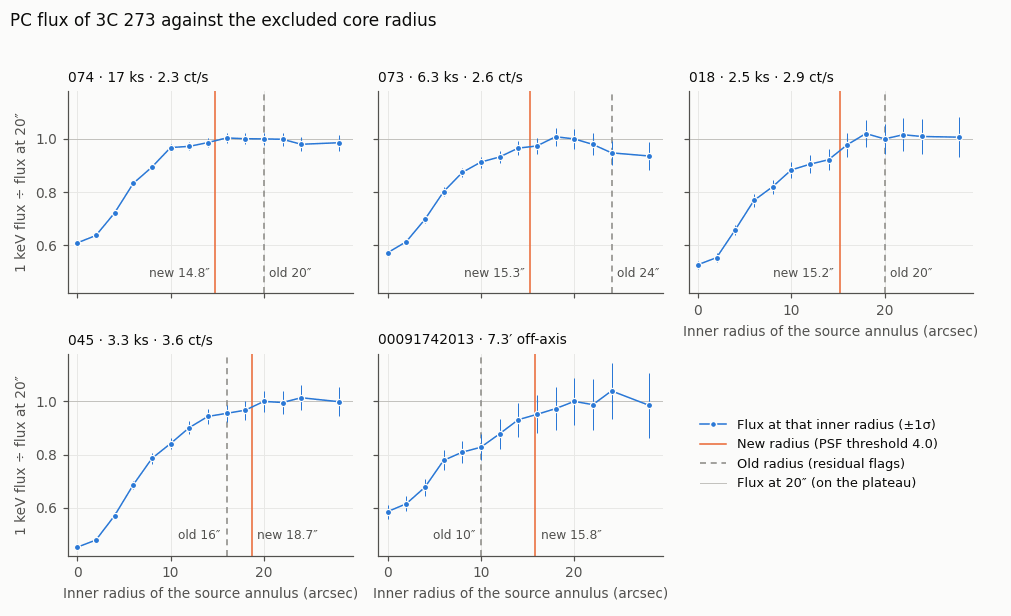
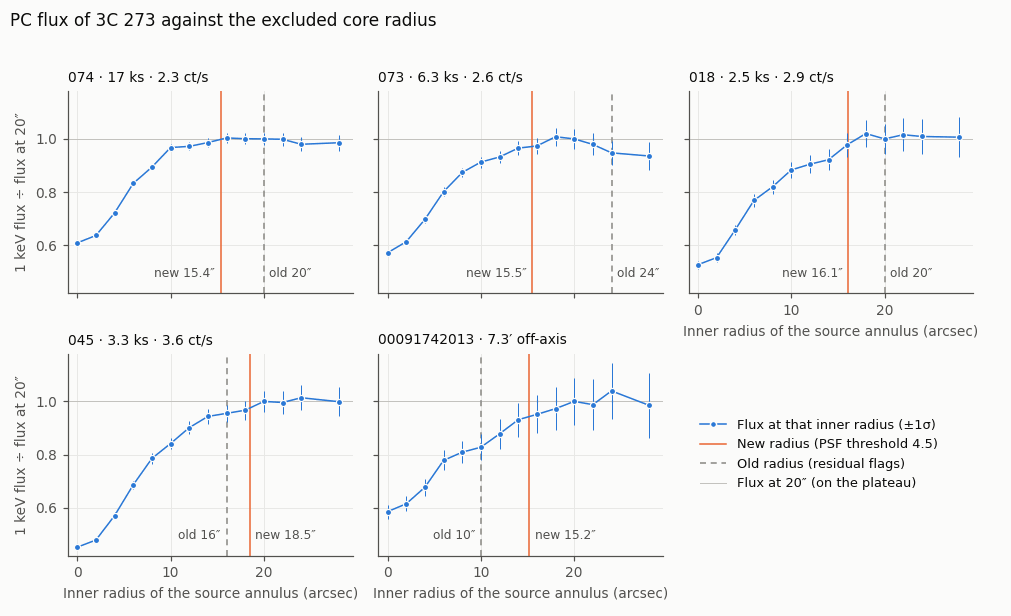
Step 5 docs: exposure-corrected profile and the 4.5 threshold
The profile plot is regenerated from the corrected script: outside the
core, 018's rings now follow the model to about 2 sigma. The page
explains the bad-column effect it removes, the threshold (4.5, with
1.5-5.4" margins), the final radii and fluxes, and adds a gotcha for
missing exposure maps. The calibration figure and source image show the
final radii. README and doc_notes are updated to match.

diff --git a/docs/05-pc-inspection.md b/docs/05-pc-inspection.md
@@ -28,7 +28,9 @@ For each PC cleaned event file in each OBSID folder, the script:
 1. **Finds the source.** It starts at `--ra`/`--dec` and moves to the mean
    position of the events within 15″, repeating with a shrinking circle.
 2. **Builds a radial profile**: surface brightness in 2″ rings out to 80″, in
-   ct/s/arcmin².
+   ct/s/arcmin². Each ring is divided by its *exposed* area, from the Step 3
+   exposure map, so bad columns crossing the source don't take counts out of
+   some rings.
 3. **Fits the PSF to the wings.** The King model of the XRT point-spread
    function, S(r) = S0 (1 + (r/rc)²)^−β + bkg, is fit between 20″ and 60″,
    where pile-up doesn't reach. The shape is fixed at the Swift calibration
@@ -37,7 +39,7 @@ For each PC cleaned event file in each OBSID folder, the script:
 4. **Sets the pile-up radius.** Pile-up depends on how many photons land on
    the same pixels in one frame. So the radius is where the fitted profile,
    which pile-up doesn't touch because it was fit to the wings, falls below
-   4 counts per frame per arcmin². S0 is taken at the top of its 1σ range, so
+   4.5 counts per frame per arcmin². S0 is taken at the top of its 1σ range, so
    a short, noisy exposure errs toward a larger radius. If the radius reaches
    into the 20–60″ fit range, those wings are piled up too, and the script
    refits further out. [How the radius is chosen](#how-the-radius-is-chosen)
@@ -56,7 +58,7 @@ For each PC cleaned event file in each OBSID folder, the script:
 | `--maxplot` | Largest radius plotted (default `--rmax` + 20) |
 | `--centroid` | Search radius for the source position, in arcsec (default 15) |
 | `--rc` / `--beta` | PSF shape, fixed (default 5.8″ and 1.55) |
-| `--sbthresh` | Pile-up threshold in counts/frame/arcmin² (default 4.0) |
+| `--sbthresh` | Pile-up threshold in counts/frame/arcmin² (default 4.5) |
 | `--sigma` / `--sigma2` | Thresholds for the diagnostic ring flags: two neighbouring rings / one ring (default 3 and 4) |
 | `--pdf` | Name of the collected plots (default `king_profiles.pdf`) |
 
@@ -92,7 +94,7 @@ table in [Step 6](06-wt-inspection.md), together with the WT table.
 
 ### Reading a profile plot
 
-![King profile of OBSID 00035017018: data fall far below the model inside 8 arcsec, sit above it between 13 and 19 arcsec, and follow it from 20 to 60 arcsec; the pile-up radius is 15.2 arcsec](img/step5_king_profile_018.png)
+![Exposure-corrected King profile of OBSID 00035017018: the data fall far below the model inside 10 arcsec and follow it everywhere outside; the pile-up radius is 16.1 arcsec](img/step5_king_profile_018.png)
 
 The top panel shows the data (black) and the King model fitted to the shaded
 20–60″ wings (red), extended inward. The bottom panel shows the difference in
@@ -100,13 +102,19 @@ The top panel shows the data (black) and the King model fitted to the shaded
 the pile-up radius.
 
 Pile-up is the deficit in the core: here the data fall below the model inside
-about 8″, by up to 43σ. Between 13″ and 19″ the data sit *above* the model.
-Pile-up only removes counts, so that isn't pile-up. The rings between 12″
-and 20″ differ from the model by +34% to −10% from one observation to the
-next. The profile isn't corrected for bad columns crossing the source, and
-the King shape isn't exact. With thousands of counts, such differences show
-at 4–6σ. That is why the flags don't set the radius: they would put it at
-20″ here, and at 24″ for 073.
+about 10″, by up to 65σ. Outside it, the data follow the model to within
+about 2σ.
+
+That depends on the exposure correction. The XRT CCD has bad columns, and
+where they cross the source, some rings lose part of their exposure. In the
+test set they remove 0–18% of the 20–60″ wing area. Uncorrected, 018's S0
+comes out 24% low, and its rings at 12–20″ sit 34% above the model, flagged
+at 4–6σ. The off-axis pointing, whose source misses the bad columns, never
+showed this.
+
+The flags now mark where the deficit becomes significant (10″ here). The
+flux needs a few arcseconds more, as shown below, which is why the flags
+don't set the radius.
 
 ### How the radius is chosen
 
@@ -116,28 +124,31 @@ The threshold was set by testing radii against spectra, not profiles. For
 five 3C 273 PC observations, spectra were extracted with inner radii from 0″
 to 28″ and fitted (Steps 7 and 8). While the inner radius is too small,
 piled-up events stay in the spectrum and the 1 keV flux comes out low. Once
-the core is excluded, the flux levels off. At 4.0 counts/frame/arcmin², the
-radius (orange) lands 1–5″ beyond that point in all five.
+the core is excluded, the flux levels off. At 4.5 counts/frame/arcmin², with
+the exposure-corrected profile, the radius (orange) lands 1.5–5.4″ beyond
+that point in all five. (4.9 is the most that would keep a 1″ margin in
+all five.)
 
-The old radius (gray) came from the ring flags. It was larger than needed for
-018, 073 and 074, keeping only 42–65% of the counts the new radius keeps, and
-too small for the off-axis pointing, whose flux was then 17% low:
+The old radius (gray) came from the ring flags on the uncorrected profile.
+It was larger than needed for 018, 073 and 074, keeping only 43–68% of the
+counts the new radius keeps, and too small for the off-axis pointing, whose
+flux was then 17% low:
 
 | OBSID | Flux levels off at | Old radius | New radius | Flux, old radius | Flux, new radius | Flux at 20″ |
 | ----- | ------------------ | ---------- | ---------- | ---------------- | ---------------- | ----------- |
-| 018 | 14″ | 20″ | 15.2″ | 1.53 ± 0.09 | 1.50 ± 0.07 | 1.53 ± 0.09 |
-| 045 | 16″ | 16″ | 18.7″ | 2.08 ± 0.07 | 2.14 ± 0.08 | 2.18 ± 0.09 |
-| 073 | 14″ | 24″ | 15.3″ | 1.29 ± 0.06 | 1.33 ± 0.04 | 1.36 ± 0.05 |
-| 074 | 10″ | 20″ | 14.8″ | 1.39 ± 0.03 | 1.38 ± 0.03 | 1.39 ± 0.03 |
-| 00091742013 | 12″ | 10″ | 15.8″ | 1.15 ± 0.07 | 1.33 ± 0.10 | 1.39 ± 0.12 |
+| 018 | 14″ | 20″ | 16.1″ | 1.53 ± 0.09 | 1.50 ± 0.07 | 1.53 ± 0.09 |
+| 045 | 16″ | 16″ | 18.5″ | 2.08 ± 0.07 | 2.12 ± 0.08 | 2.18 ± 0.09 |
+| 073 | 14″ | 24″ | 15.5″ | 1.29 ± 0.06 | 1.33 ± 0.04 | 1.36 ± 0.05 |
+| 074 | 10″ | 20″ | 15.4″ | 1.39 ± 0.03 | 1.39 ± 0.03 | 1.39 ± 0.03 |
+| 00091742013 | 12″ | 10″ | 15.2″ | 1.15 ± 0.07 | 1.32 ± 0.09 | 1.39 ± 0.12 |
 
 Fluxes are at 1 keV, in 10⁻²⁸ erg cm⁻² s⁻¹ Hz⁻¹. "Levels off at" is the
 smallest radius from which the flux stays within 2σ of its value at 20″.
 
-The two short snapshots in the test set get 14.2″, because their S0 is
-uncertain by 24% (043, 122 s) and 36% (080, 75 s). 043 keeps 82 counts, enough
-for a fit with Γ frozen. 080 keeps too few, so it drops out of the light curve
-in Step 8.
+The two short snapshots in the test set get 13.7″ and 13.8″, a little larger
+than their brightness alone would give, because their S0 is uncertain by 23%
+(043, 122 s) and 34% (080, 75 s). 043 keeps 84 counts, enough for a fit with
+Γ frozen. 080 keeps too few, so it drops out of the light curve in Step 8.
 
 The calibration covers one source at 2.3–3.6 ct/s. Pile-up depends on counts
 per frame on each pixel, and that is what the threshold measures, so it
@@ -156,15 +167,16 @@ re-run 5a, then extract and fit (Steps 7 and 8) at each.
 # King PSF: rc=5.80" beta=1.550 (fixed)
 # Window: Window: w3 (300x300px, 1.77s/frame)
 # Count rate: 2.857 ct/s
-pileup_radius_arcsec = 15.2
+pileup_radius_arcsec = 16.1
 
 # How pileup_radius_arcsec was chosen:
 pileup_method = psf-threshold
-sb_threshold = 4 counts/frame/arcmin^2
+sb_threshold = 4.5 counts/frame/arcmin^2
 wing_fit_range_arcsec = 20-60
-s0_fractional_error = 0.042
+exposure_map = sw00035017018xpcw3po_ex.img
+s0_fractional_error = 0.040
 # Residual-flag radius, diagnostic only:
-measured_pileup_radius_arcsec = 20.0
+measured_pileup_radius_arcsec = 10.0
 ```
 
 Step 7 reads the centroid, plate scale, count rate, `pileup_radius_arcsec` and
@@ -174,7 +186,7 @@ after the blank line record how the radius was chosen.
 
 ### What to look for in the images
 
-![Source image of OBSID 00035017073: a single point source at the magenta centroid, with the 15.3-arcsec pile-up radius drawn as a red dashed circle](img/step5_source_073.png)
+![Source image of OBSID 00035017073: a single point source at the magenta centroid, with the 15.5-arcsec pile-up radius drawn as a red dashed circle](img/step5_source_073.png)
 
 - **One point source at the magenta mark.** If the mark sits off the source,
   `--ra`/`--dec` or the centroid search went wrong.
@@ -254,6 +266,12 @@ lines starting with `#` are ignored.
 
 5. **`badstripe` does nothing.** It is a note only. To drop an observation,
    set `include` to `no`.
+
+6. **The profile needs the Step 3 exposure maps.** Without
+   `<stem>_ex.img` next to the event file (for example after
+   `--createexpomap no`), 5a warns and uses the geometric ring area. Bad
+   columns then pull S0 down, and the radius can come out up to about 1.5″
+   too small. `_pileup.txt` records which was used (`exposure_map`).
 
 ## Notes
 

diff --git a/doc_notes.md b/doc_notes.md
@@ -198,27 +198,36 @@ Findings:
   σ_diff² = σ_outer² − σ_inner² for nested annuli). The flags missed in
   both directions, and a deficit-only test (with either PSF shape) gave
   8–10″ for 018/073, where their flux was still 9–18% low. The radius is
-  now the PSF surface-brightness threshold (S0 + 1σ) at 4.0
-  counts/frame/arcmin² for every observation; PR #11's 1.75 had been
-  calibrated to the inflated flag radii. Fluxes at the new radii match the
-  levelled-off values within 0.5σ, with 21–34% smaller errors for 018, 073
-  and 074. The calibration covers one source at 2.3–3.6 ct/s.
+  now the PSF surface-brightness threshold (S0 + 1σ) for every
+  observation, on the exposure-corrected profile (next bullet), at 4.5
+  counts/frame/arcmin²: the most that keeps every radius 1″ beyond where
+  its flux levels off is 4.9. PR #11's 1.75 had been calibrated to the
+  inflated flag radii. Fluxes at the new radii match the levelled-off
+  values within 0.8σ, and 018, 073 and 074 keep 1.5–2.3× the counts.
+  The calibration covers one source at 2.3–3.6 ct/s.
   Test data stay on amorgos in `test_runs/pu/` (gitignored): `R00`–`R28`
-  extractions and fits, `scan.json`, `NEW/` (new method), `analysis/`.
+  extractions and fits, `scan.json`, `NEW/` (threshold, uncorrected
+  profile), `NEW2/` (final: exposure-corrected, 4.5), `analysis/`
+  (`calibrate.py`, `calib_figure.py`, `expo_profiles.py`).
 - **The CALDB PC PSF (`swxpsf20010101v006`, 2020) is not the script's
   King shape.** v006 is a King with rc = 1.581 px (3.7″) and β = 1.305 plus
   a 7.5% Gaussian with σ = 3.149 px; the script's fixed rc = 5.8″,
-  β = 1.55 matches v004/v005. Neither describes the 12–20″ rings
-  consistently: data/model there runs from +34% (018) to −10% (045) with
-  the script's shape and +16% to −20% with v006, varying by observation.
-  Likely causes: bad columns crossing the source (the profile isn't
-  exposure-corrected), pile-up reaching ~16″ in the brightest (045), maybe
-  the 3C 273 jet at 13–22″ (a wedge test was inconclusive, confounded by
-  exposure). That per-observation structure, not pile-up, is what the
-  flags picked up; v006 in the profile gave the same radii.
+  β = 1.55 matches v004/v005. The PSF shape turned out not to matter
+  here (v006 in the profile gave the same radii); see the next bullet.
+- ~~The 12–20″ rings differ from the model by +34% to −10% by
+  observation~~ — CAUSE FOUND AND FIXED on the same branch: bad columns.
+  The profile divided counts by geometric ring area; bad columns crossing
+  the source remove 0–18% of the 20–60″ wing area (up to 13–32% of single
+  rings), which left S0 up to 24% low and the inner rings looking bright.
+  The profile now divides each ring by its exposed area from the
+  xrtpipeline exposure map (pixels whose centres fall in the ring, as the
+  events do, weighted by exposure). Corrected: 018 +34% → +3%, 073
+  +12% → −2%, wing χ²/dof 0.8–3.5 → 0.7–1.3, and the residual flags move
+  from 20–24″ to the core deficit at 10–12″. The off-axis pointing misses
+  the bad columns and never showed the bump.
 - **The fitter freezes Γ at `--defgamma` 2.0 below `--mingamma` 200
   counts.** For 3C 273 (Γ ≈ 1.5) that biases the 1 keV flux of short PC
-  snapshots such as 043 (82 counts at its new 14.2″). For 1.2.8.
+  snapshots such as 043 (84 counts at its new 13.7″). For 1.2.8.
 - **Overrides reach extraction only through `_pileup.txt`.** Extraction
   never reads `pileup_overrides.txt`, though `parallel_extract.py` symlinks
   it into each chunk dir as if it did. Documented ("re-run 5a"); for

diff --git a/README.md b/README.md
@@ -300,7 +300,7 @@ Key options:
     --rbin      Radial bin width in arcsec (default: 2)
     --rc        King core radius, fixed (default: 5.8")
     --beta      King beta slope, fixed (default: 1.55)
-    --sbthresh  Pile-up threshold, counts/frame/arcmin^2 (default: 4.0)
+    --sbthresh  Pile-up threshold, counts/frame/arcmin^2 (default: 4.5)
     --sigma     Diagnostic ring flags, 2 consecutive bins (default: 3.0)
     --sigma2    Diagnostic ring flags, single bin (default: 4.0)
     --pdf       Output PDF filename (default: king_profiles.pdf)
@@ -317,9 +317,9 @@ Override file (optional):
     radius from _pileup.txt, not from the override file.
 ```
 
-The King model `S(r) = S0 * (1 + (r/rc)²)^(-β) + bkg` is fit to the outer wings only (rmin–rmax), where pile-up doesn't reach. The core radius (rc=5.8") and slope (β=1.55) are fixed; only S0 and background are free. The pile-up radius is where this profile, with S0 at the top of its 1σ range, falls below `--sbthresh` counts per frame per arcmin² (pile-up is per frame, so this scales with the window's frame time). If the radius reaches into the fitting annulus, the wings are refit further out.
+The radial profile divides each ring by its exposed area, from the xrtpipeline exposure map (`{stem}_ex.img`), so bad columns crossing the source don't distort it; without the map it falls back to the geometric area, with a warning. The King model `S(r) = S0 * (1 + (r/rc)²)^(-β) + bkg` is fit to the outer wings only (rmin–rmax), where pile-up doesn't reach. The core radius (rc=5.8") and slope (β=1.55) are fixed; only S0 and background are free. The pile-up radius is where this profile, with S0 at the top of its 1σ range, falls below `--sbthresh` counts per frame per arcmin² (pile-up is per frame, so this scales with the window's frame time). If the radius reaches into the fitting annulus, the wings are refit further out.
 
-The threshold was calibrated on spectra. For five 3C 273 PC observations, spectra extracted with inner radii of 0–28″ show the 1 keV flux levelling off once the piled-up core is excluded, at 10–16″. At 4.0 the radius lands 1–5″ beyond that in all five, and the fluxes agree with the levelled-off values. Rings that differ from the model by `--sigma`/`--sigma2` are still flagged in the plot and `_pileup.txt`, but only as a diagnostic: with thousands of counts, departures from the model outside the pile-up (the King shape isn't exact, and the profile isn't corrected for bad columns) show at 4–6σ, so the flags set radii of 20–24″ where 10–14″ suffices, and 10″ for an off-axis source whose flux was then 17% low. Details and the test: [docs/05-pc-inspection.md](docs/05-pc-inspection.md#how-the-radius-is-chosen).
+The threshold was calibrated on spectra. For five 3C 273 PC observations, spectra extracted with inner radii of 0–28″ show the 1 keV flux levelling off once the piled-up core is excluded, at 10–16″. At 4.5, with the exposure-corrected profile, the radius lands 1.5–5.4″ beyond that in all five, and the fluxes agree with the levelled-off values. Rings that differ from the model by `--sigma`/`--sigma2` are still flagged in the plot and `_pileup.txt`, but only as a diagnostic: they mark where the core deficit becomes significant (10–12″ for these), a few arcsec short of where the flux levels off. On the uncorrected profile, bad columns made the flags set 20–24″ where 10–14″ suffices, and 10″ for an off-axis source whose flux was then 17% low. Details and the test: [docs/05-pc-inspection.md](docs/05-pc-inspection.md#how-the-radius-is-chosen).
 
 ### `swift_pc_source_viewer.py`
 
